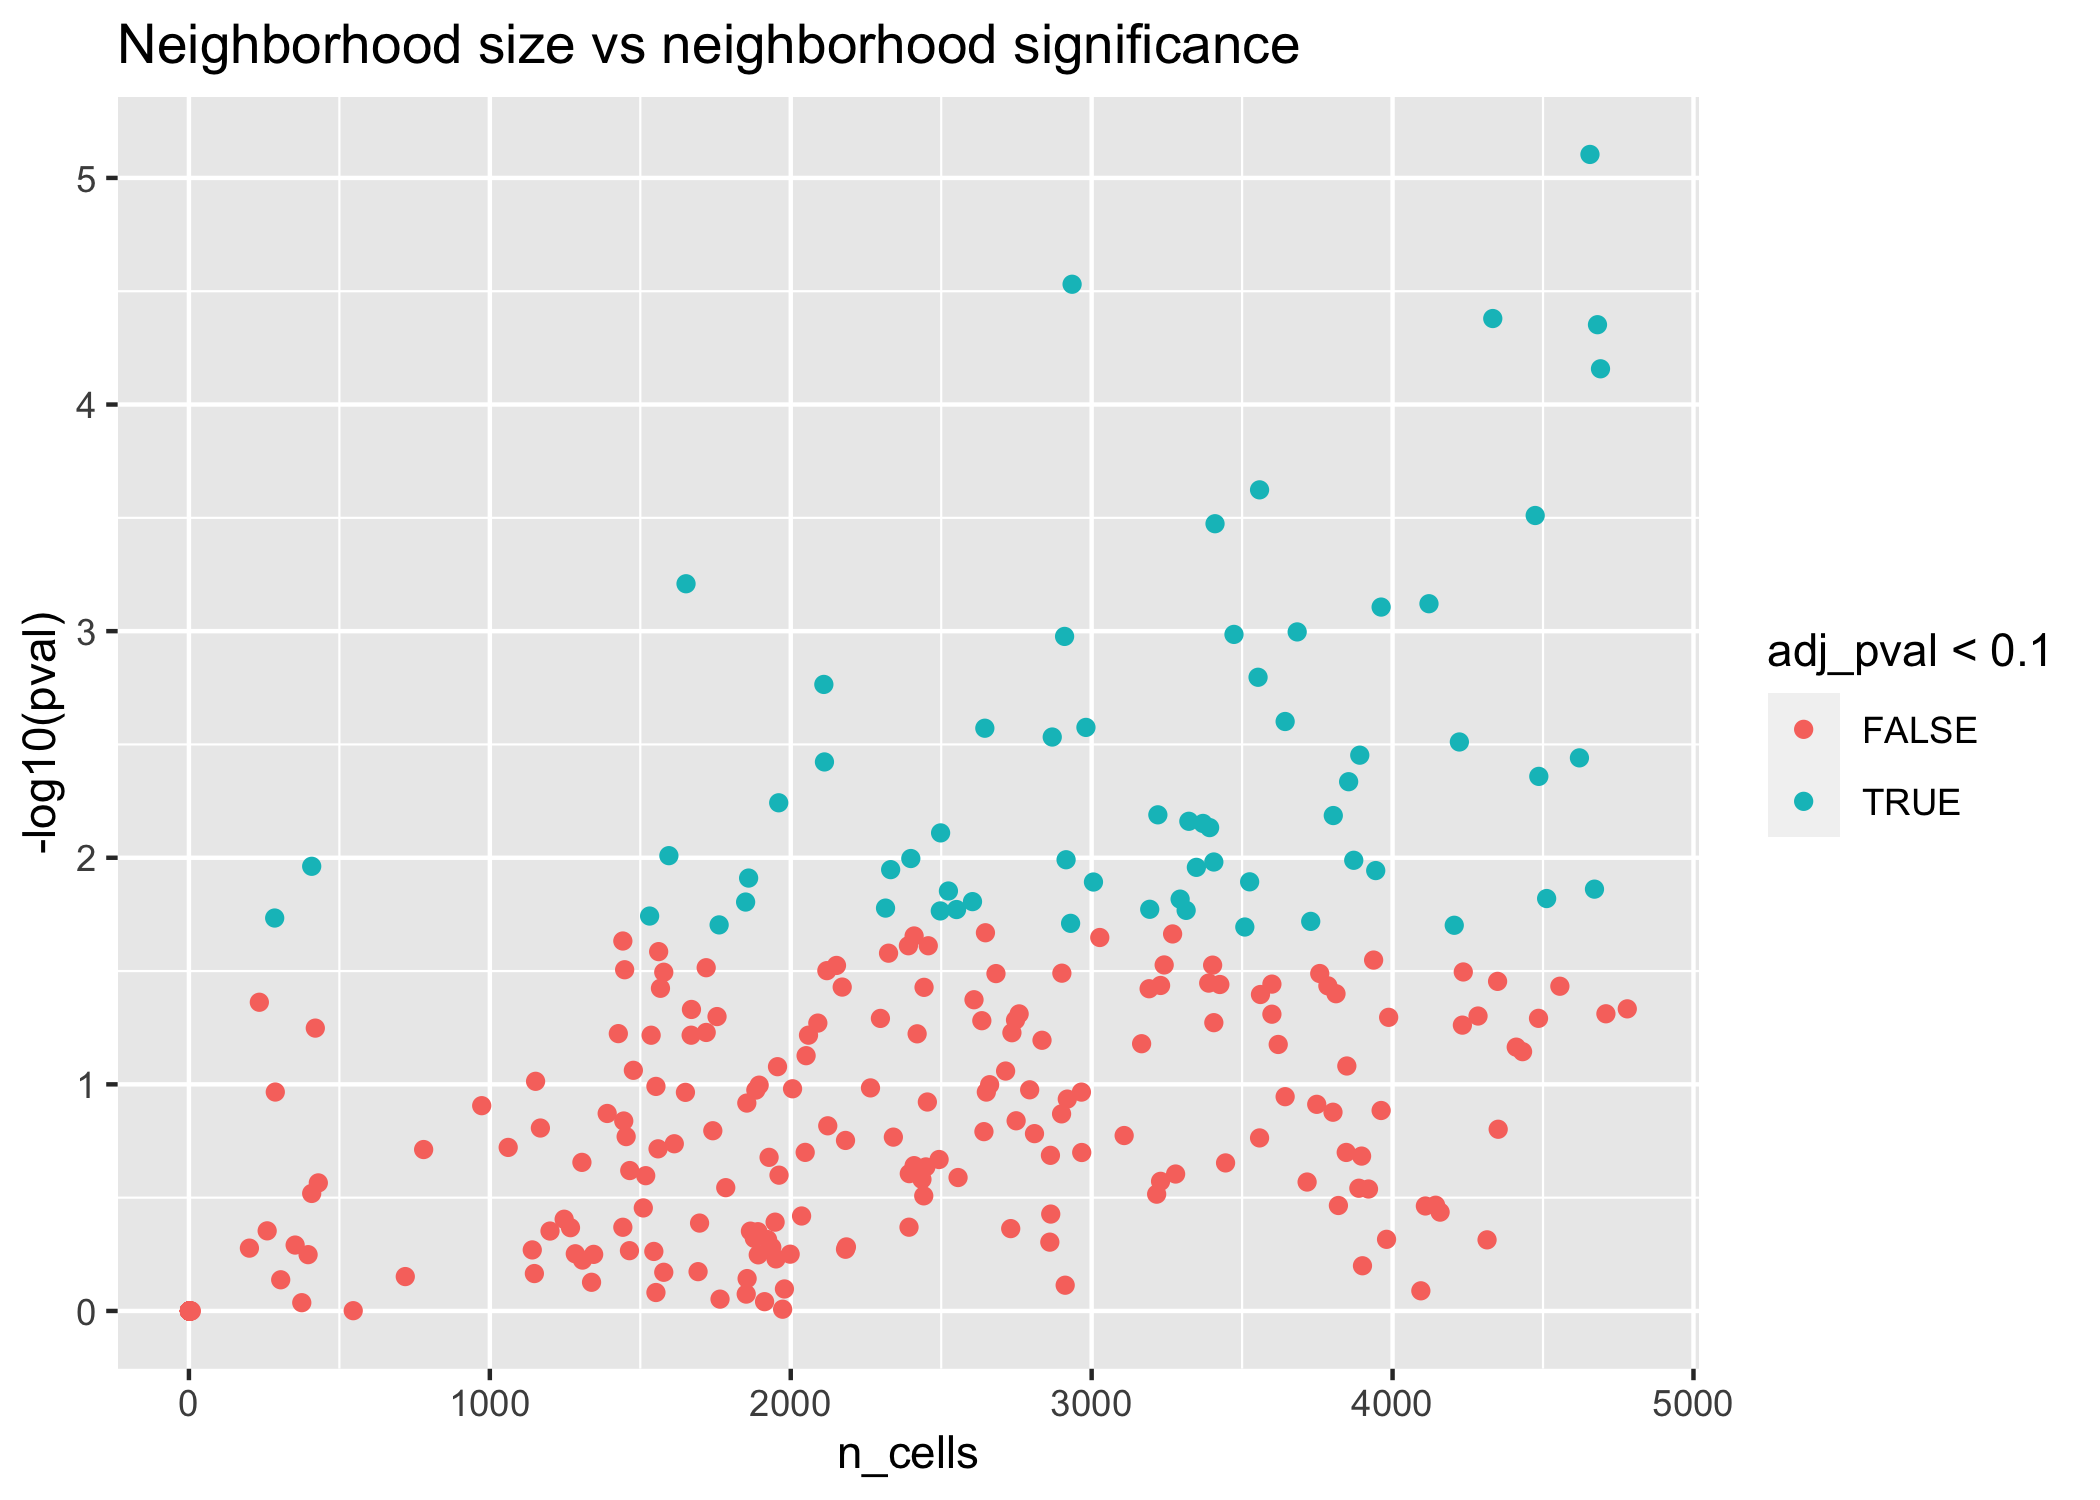
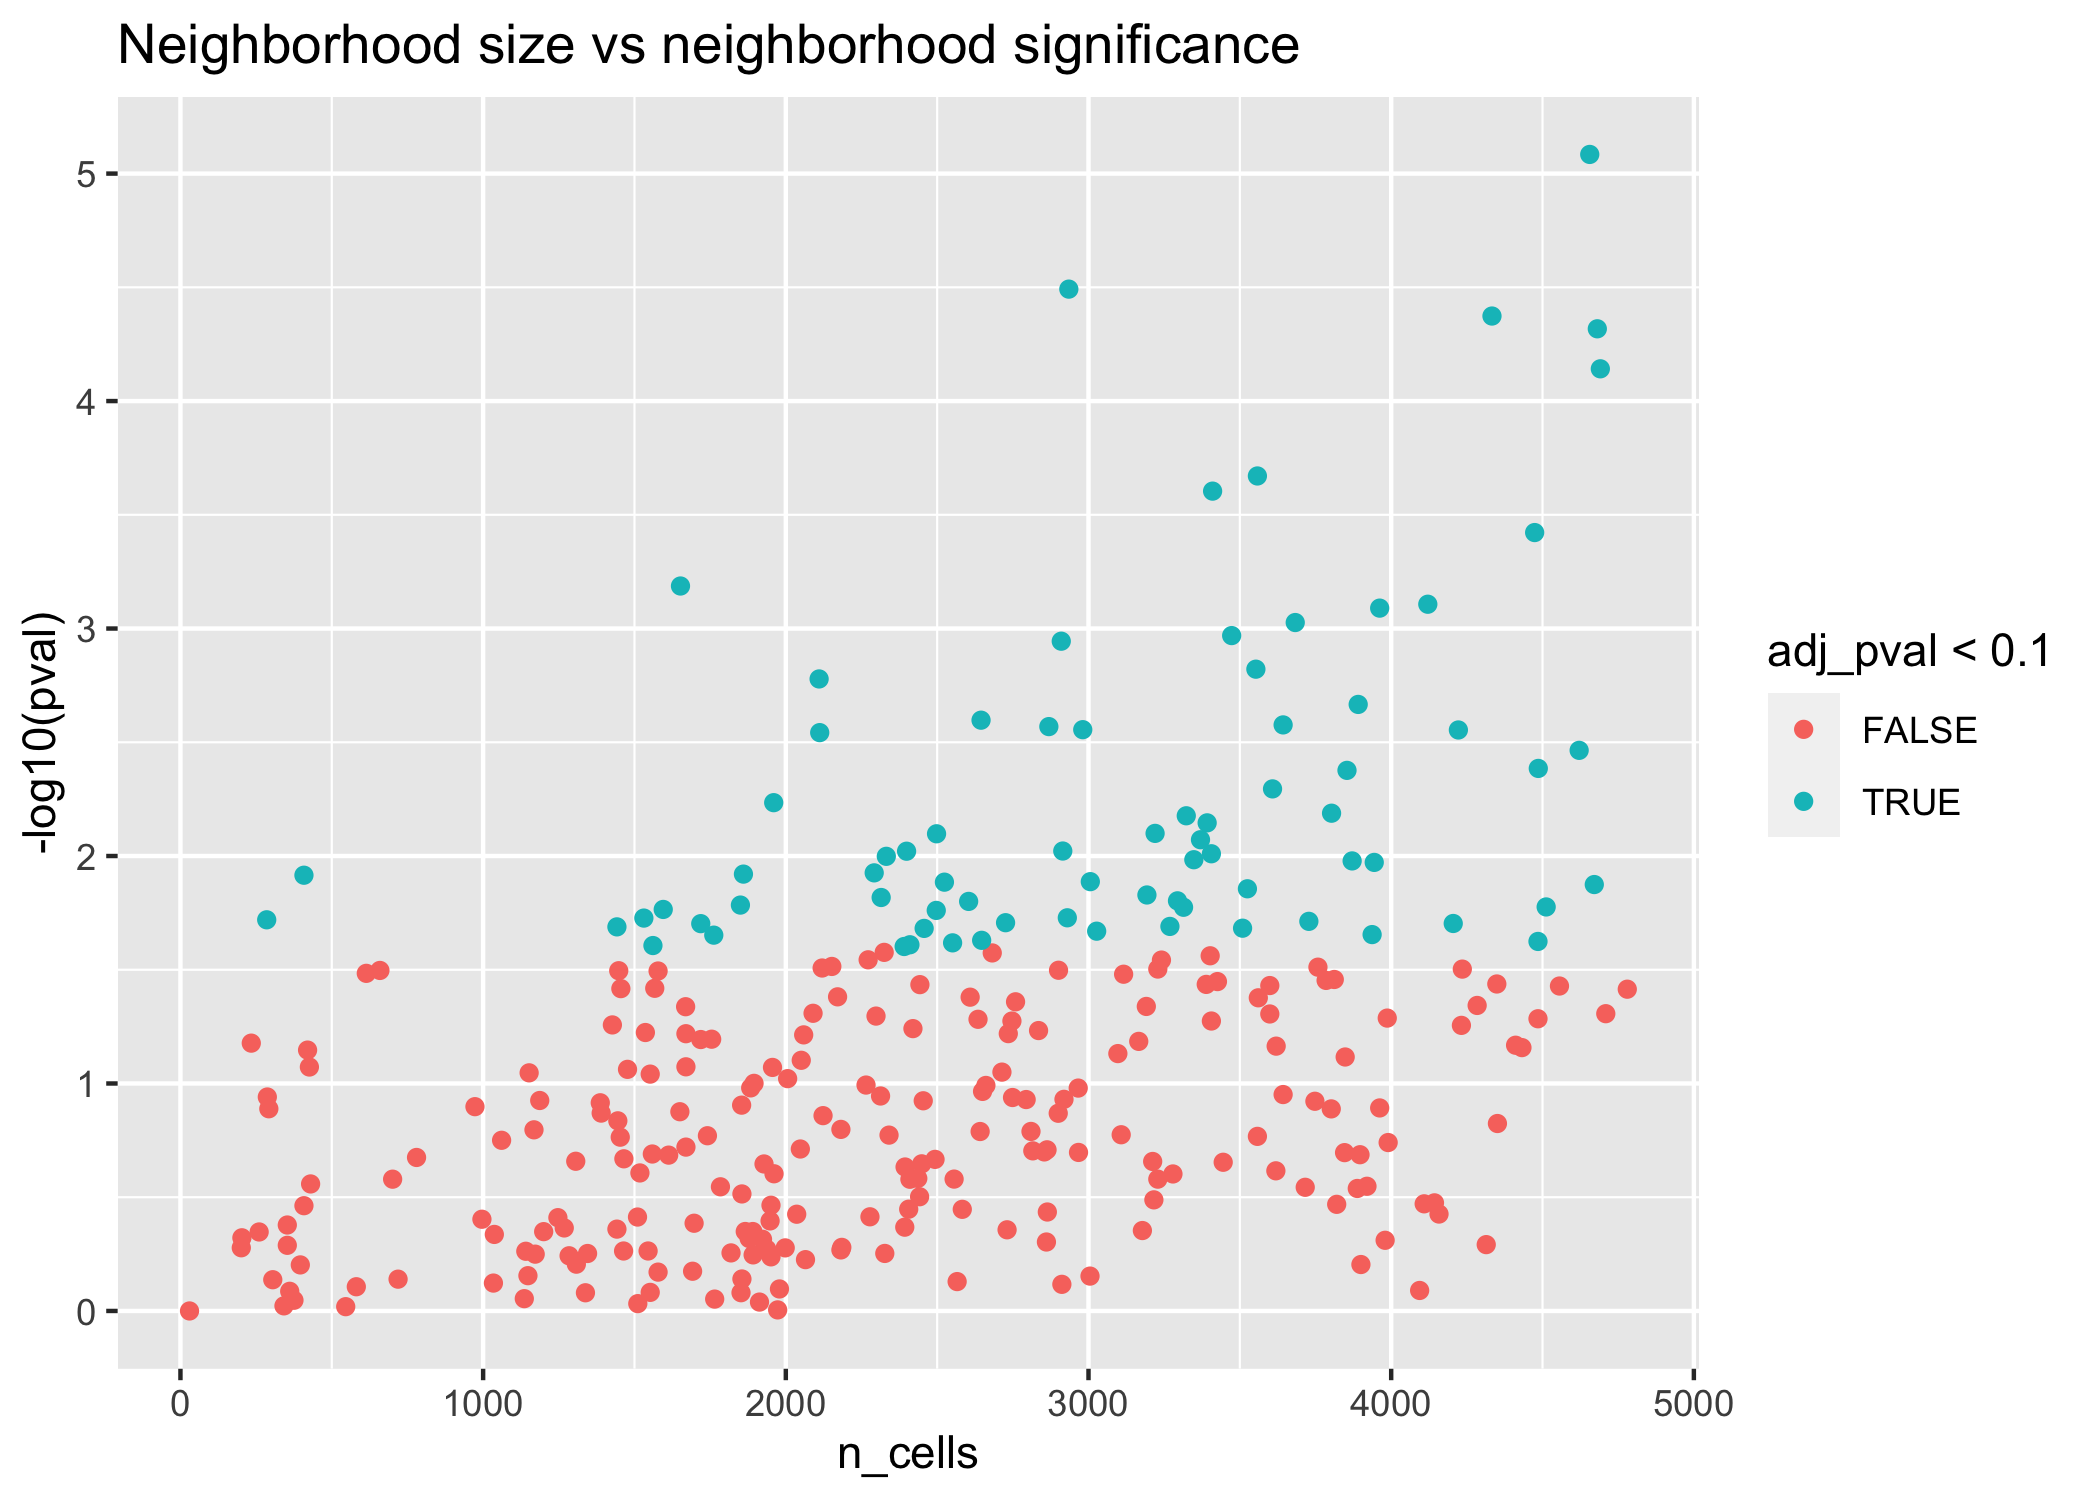
Update README

diff --git a/README.md b/README.md
@@ -220,16 +220,16 @@ as_tibble(neighborhoods) %>%
 #> # A tibble: 300 × 5
 #>    name            symbol n_cells       pval adj_pval
 #>    <chr>           <chr>    <int>      <dbl>    <dbl>
-#>  1 ENSG00000187193 MT1X      4656 0.00000788  0.00236
-#>  2 ENSG00000245532 NEAT1     2935 0.0000295   0.00333
-#>  3 ENSG00000113889 KNG1      4333 0.0000417   0.00333
-#>  4 ENSG00000147588 PMP2      4681 0.0000444   0.00333
-#>  5 ENSG00000175899 A2M       4691 0.0000696   0.00417
-#>  6 ENSG00000177700 POLR2L    3558 0.000238    0.0119 
-#>  7 ENSG00000125148 MT2A      4474 0.000309    0.0126 
-#>  8 ENSG00000198668 CALM1     3410 0.000336    0.0126 
-#>  9 ENSG00000169429 CXCL8     1652 0.000618    0.0206 
-#> 10 ENSG00000069275 NUCKS1    4121 0.000757    0.0214 
+#>  1 ENSG00000187193 MT1X      4656 0.00000824  0.00247
+#>  2 ENSG00000245532 NEAT1     2935 0.0000322   0.00361
+#>  3 ENSG00000113889 KNG1      4333 0.0000423   0.00361
+#>  4 ENSG00000147588 PMP2      4681 0.0000481   0.00361
+#>  5 ENSG00000175899 A2M       4691 0.0000721   0.00433
+#>  6 ENSG00000177700 POLR2L    3558 0.000213    0.0107 
+#>  7 ENSG00000198668 CALM1     3410 0.000249    0.0107 
+#>  8 ENSG00000125148 MT2A      4474 0.000378    0.0142 
+#>  9 ENSG00000169429 CXCL8     1652 0.000650    0.0217 
+#> 10 ENSG00000069275 NUCKS1    4121 0.000782    0.0222 
 #> # ℹ 290 more rows
 ```
 
